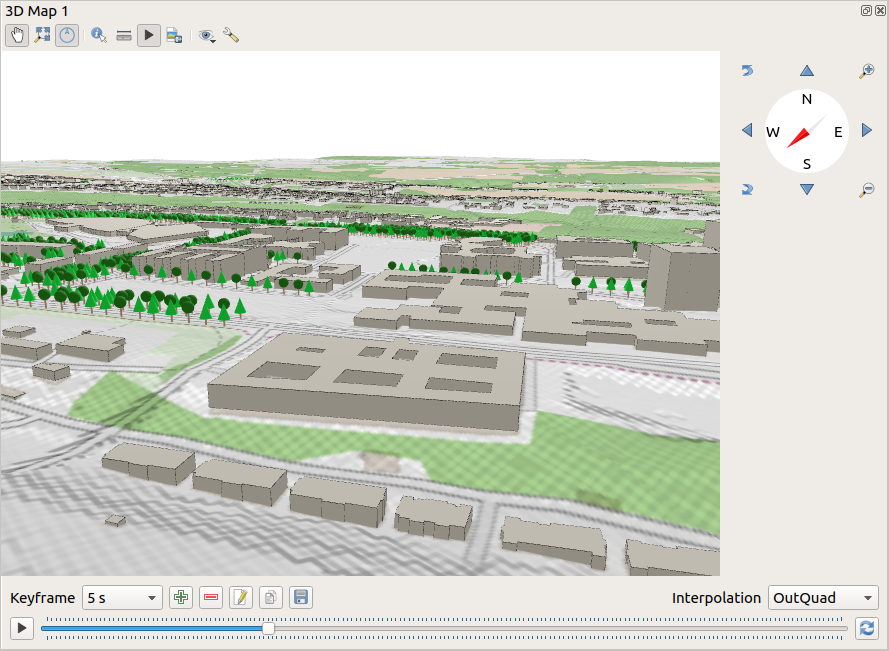
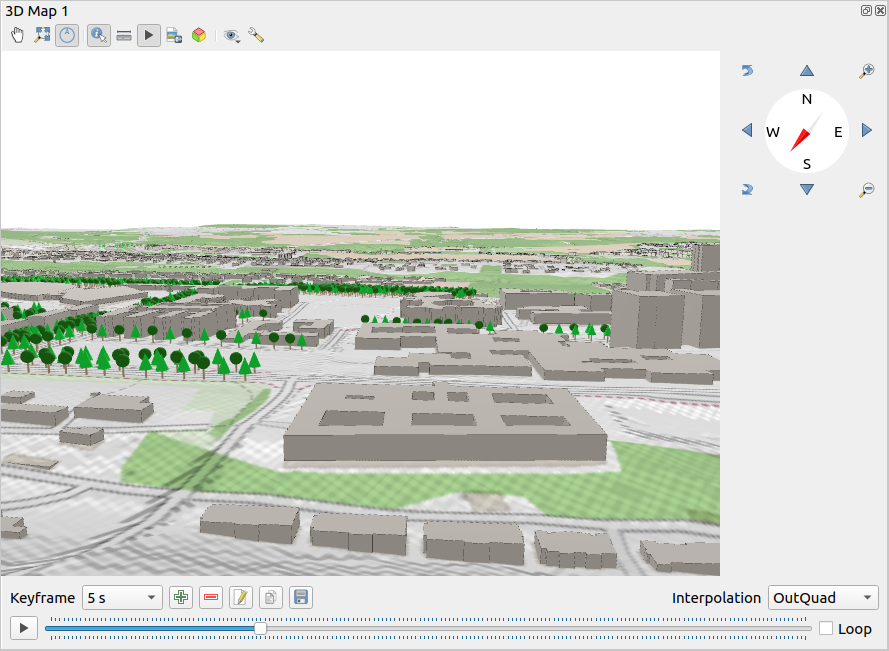
3D map view can be exported as scenes

diff --git a/docs/user_manual/introduction/qgis_gui.rst b/docs/user_manual/introduction/qgis_gui.rst
@@ -2248,6 +2248,19 @@ The following tools are provided at the top of the 3D map view panel:
   <create_animation>` widget
 * |saveMapAsImage| :sup:`Save as image...`: exports the current view to
   an image file format
+* |3d| :sup:`Export 3D Scene...`: exports the current view as a 3D scene
+  (:file:`.obj` file), allowing post-processing in applications like Blender...
+  The terrain and vector features are exported as 3D objects.
+  The export settings, overriding the layers :ref:`properties <sec_3_d_view>`
+  or map view `configuration <scene_configuration>`, include:
+
+  * :guilabel:`Scene name` and destination :guilabel:`Folder`
+  * :guilabel:`Terrain resolution`
+  * :guilabel:`Terrain texture resolution`
+  * :guilabel:`Model scale`
+  * |checkbox| :guilabel:`Smooth edges`
+  * |checkbox| :guilabel:`Export normals`
+  * |checkbox| :guilabel:`Export textures`
 * |showMapTheme| :sup:`Set View Theme`: Allows you to select the set of layers to
   display in the map view from predefined :ref:`map themes <map_themes>`.
 * |options| :sup:`Configure` the map view :ref:`settings <scene_configuration>`
@@ -2571,6 +2584,8 @@ Click the icon to open the Plugin Manager dialog.
    please add it also to the substitutions.txt file in the
    source folder.
 
+.. |3d| image:: /static/common/3d.png
+   :width: 1.5em
 .. |3dNavigation| image:: /static/common/mAction3DNavigation.png
    :width: 1.3em
 .. |addAfsLayer| image:: /static/common/mActionAddAfsLayer.png
